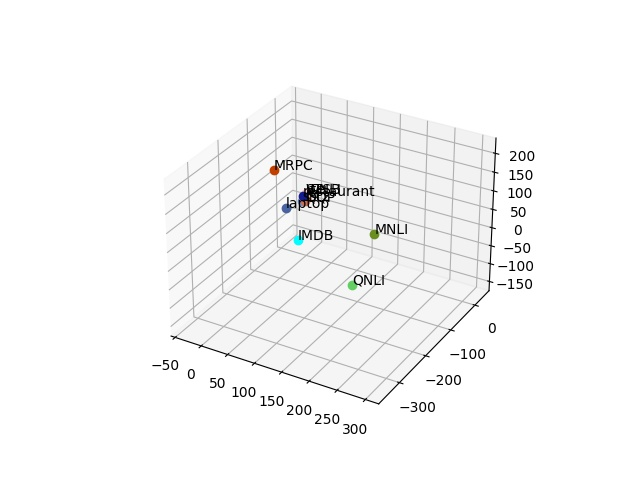
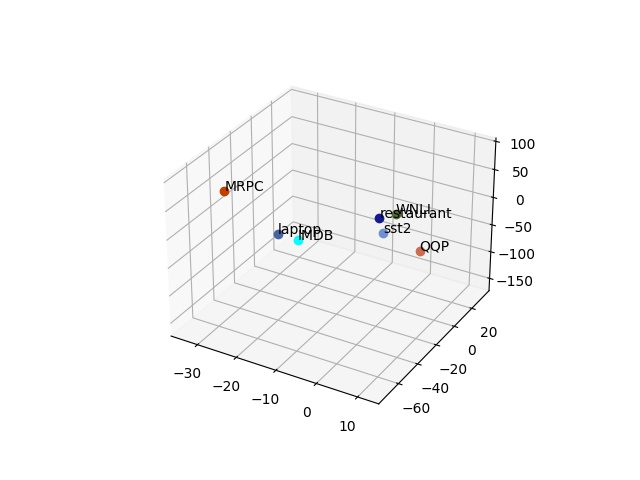
update

diff --git a/draw_cuda_taskprompt.py b/draw_cuda_taskprompt.py
@@ -553,9 +553,9 @@ task_map={0:"sst2",1:"rte",2:"re",3:"MNLI",4:"MRPC",5:"QNLI",6:"QQP",7:"WNLI",8:
 color_map={0:"#728FCE",1:"#347235",2:"#3D0C02",3:"#6B8E23",4:"#C04000",5:"#64CD64",6:"#CB6D51",7:"#556B2F",8:"#FFC0CB",9:"#4863A0",10:"#151B8D",11:"#00FFFF"}
 
 
-blocked_list = []
+#blocked_list = []
 #blocked_list = [1,3,4,5,6,7,8]
-#blocked_list = [1,4,7,8]
+blocked_list = [1,3,2,5,8]
 
 #sentiment, NLI, RE, Paraphrase
 #blocked_list = [5,8]
